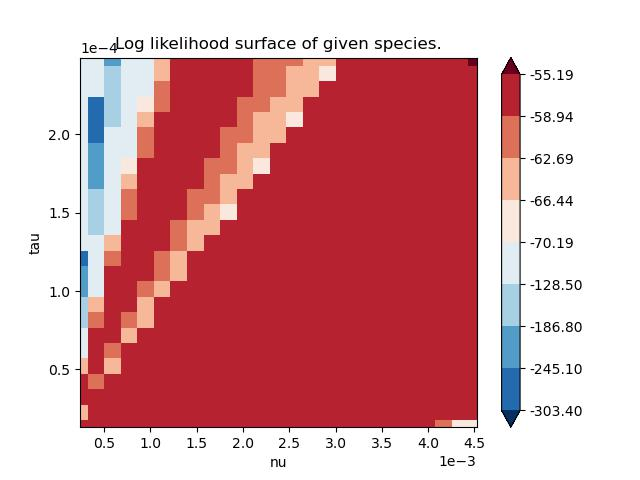
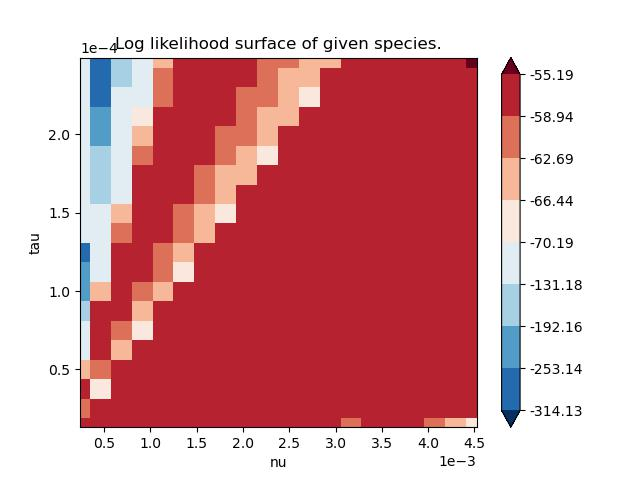
plot likelihood test.

diff --git a/Scripts/plot_likelihood.py b/Scripts/plot_likelihood.py
@@ -439,10 +439,10 @@ class PlotLikelihood():
                 logger.info('Beginning demographic inference for two-epoch '
                             'demographic model.')
             with open(file, 'w') as f:
-                # min_nu = 0.1 * nu_prime
-                # max_nu = 1.9 * nu_prime
                 min_nu = 0.1 * nu_prime
-                max_nu = 2.0
+                max_nu = 1.9 * nu_prime
+                # min_nu = 0.1 * nu_prime
+                # max_nu = 2.0
                 min_tau = 0.1 * tau_prime
                 max_tau = 1.9 * tau_prime
                 nx = 20
